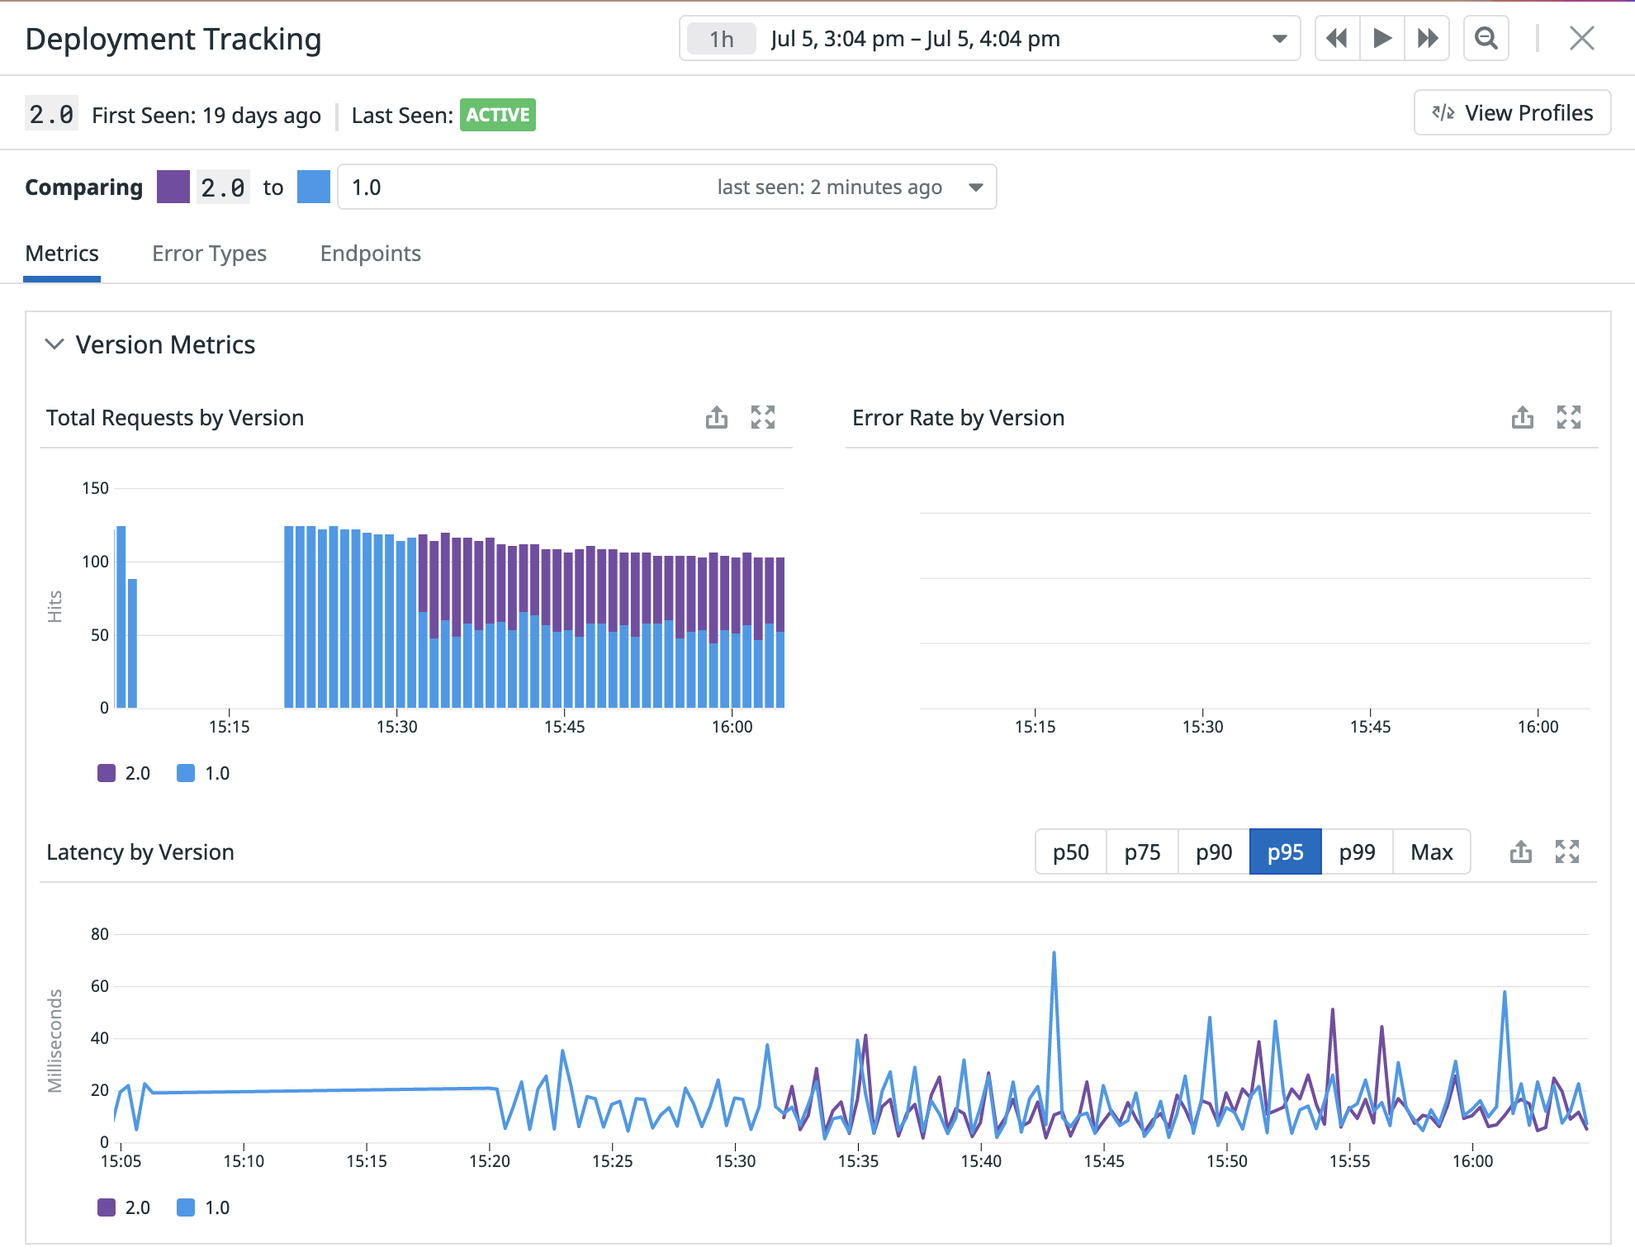
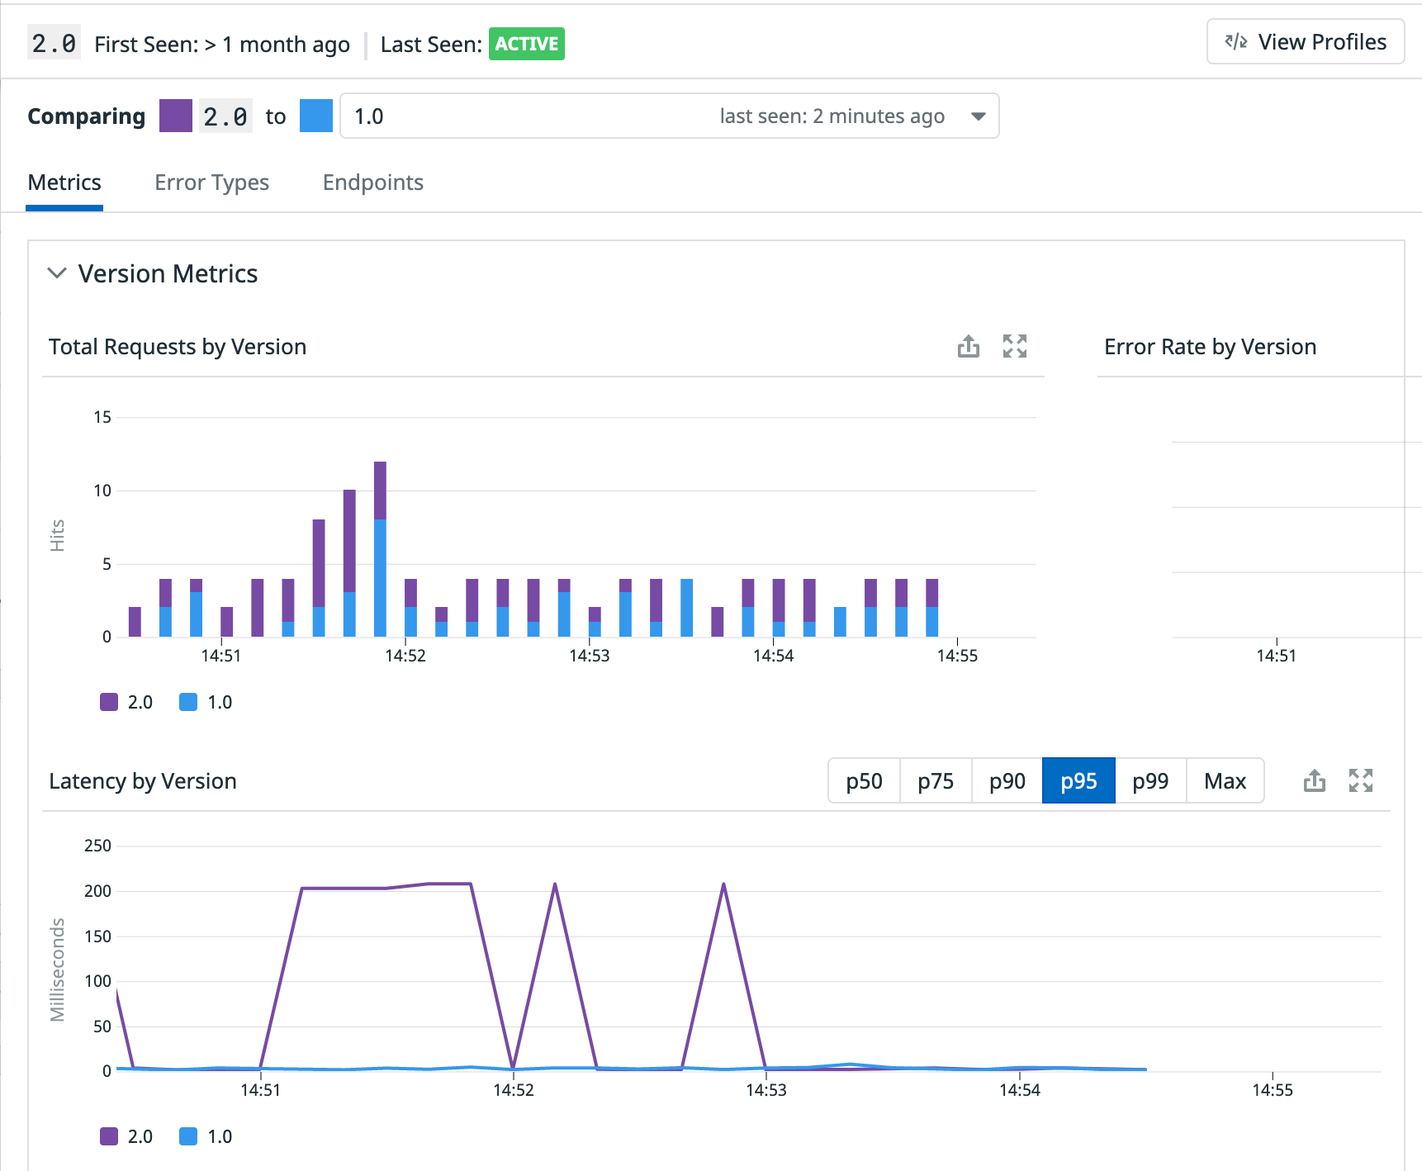
Improvements to the progressive delivery workshop

diff --git a/progressive/step11.md b/progressive/step11.md
@@ -2,20 +2,46 @@ As you have seen, VirtualServices can be used to bind traffic from a Gateway to 
 
 We are going to use VirtualServices in combination with [DestinationsRules](https://istio.io/latest/docs/reference/config/networking/destination-rule/) to be able to create a canary deployment for the `advertisements` service. Destination Rules are rules to configures what happens to your network traffic once it has reached the destination defined in a Virtual Service.
 
-We are going to create a second deployment of the `advertisements` container. Open the file called `manifest-files/istio/ads-v2/advertisements.yaml`{{open}} Can you spot the differences between this deployment and the current one running on namespace `ns3`. You can see the differences running this command: `diff -u manifest-files/istio/ecommerce-istio/advertisements.yaml manifest-files/istio/ads-v2/advertisements.yaml`{{execute}} 
+We are going to create a second deployment of the `advertisements` container. Open the file called `manifest-files/istio/ads_v2/advertisements_v2.yaml`{{open}} Can you spot the differences between this deployment and the current one running on namespace `ns3`. You can see the differences running this command: `diff -u manifest-files/istio/ecommerce-istio/advertisements.yaml manifest-files/istio/ads_v2/advertisements_v2.yaml`{{execute}}
 
-You can see that we have modified the image, the `DD_VERSION` and now we have also modified the `version` label. Let's apply that manifest: `kubectl apply -f manifest-files/istio/ads-v2/advertisements.yaml`{{execute}}
+You can see that we have modified the image, the `DD_VERSION` and now we have also modified the `version` label. Let's apply that manifest: `kubectl apply -f manifest-files/istio/ads_v2/advertisements_v2.yaml`{{execute}}
 
 Open again the Istio Ingress Gateway tab again and refresh it several times. You can see that sometimes you are getting the "Version 1.0" banner and sometimes you get the "Version 2.0" banner. This is not because of Istio, this is because general Service Networking, as we saw on the first scenario. The `advertisements` Service is selecting both pods, so half the time we will get the first one, and half the time we will get the second. We are going to configure Istio to modify those canary rules.
 
-Istio uses labels to be able to define different versions of the same service. To define those different versions we will use a `DestinationRules` object. Open the file called `manifest-files/istio/ads-v2/destinationrule.yaml`{{open}}
+Istio uses labels to be able to define different versions of the same service. To define those different versions we will use a `DestinationRules` object. Open the file called `manifest-files/istio/ads_v2/destinationrule.yaml`{{open}}
 
-In that file we are defining two different subsets of pods for the `advertisements` host: `v1` for pods with the label `version=v1` and `v2` for pods with the label `v2`. Let's apply that object: `kubectl apply -f manifest-files/istio/ads-v2/destinationrule.yaml`{{execute}}
+In that file we are defining two different subsets of pods for the `advertisements` host: `v1` for pods with the label `version=v1` and `v2` for pods with the label `version=v2`. Let's apply that object: `kubectl apply -f manifest-files/istio/ads_v2/destinationrule.yaml`{{execute}}
 
-Now we need to create a `VirtualService` object to define routing rules for the `advertisements` host. Open the file called `manifest-files/istio/ads-v2/virtualservice.yaml`{{open}} We are defining that for any traffic addressed to `advertisements` we are routing that to both versions of `advertisements` is the same, but each of them will get a different weight, with version v1 getting 100% of the trafic. Let's apply that object: `kubectl apply -f manifest-files/istio/ads-v2/virtualservice.yaml`{{execute}} 
+When the `frontend` service calls the `advertisements` service it always calls this endpoint: `http://advertisements:5002/ads`, but it sends a different value for the HTTP header `page-source` depending from what page the service is called from. When you see the ads banner from the home page, the value for the `page-source` header is `home`, but when you click on a product, and get the ads banner at the bottom of the page, the value for the `page-source` header in the request to `http://advertisements:5002/ads` is `products`.
 
-Open again the Istio Ingress Gateway tab again and refresh it several times. You are now getting the "Version 1.0" banner 100% of the times.
+Our business team have an hypothesis about the advertisement shown in the product pages. As a customer seeing that advertisement has already express interest in a product, it is more likely to click on a relevant advertisement. To try to prove their theory, they want 50% of the customer visiting a product to get version 2.0 of the advertisement service, with this new feature, and 50% the current version 1.0. Customers reaching the home page would need to always get version 1.0.
 
-Edit the manifest file to split the traffic between versions with a weight of 50% each: `manifest-files/istio/ads-v2/virtualservice.yaml`{{open}}. Once you have made the needed edits, apply the manifest again: `kubectl apply -f manifest-files/istio/ads-v2/virtualservice.yaml`{{execute}}
+We need to create a `VirtualService` object to define routing rules for the `advertisements` host. Open the file called `manifest-files/istio/ads_v2/virtualservice.yaml`{{open}}
 
-Open again the Istio Ingress Gateway tab again and refresh it several times. You should now be getting about half the time the "Version 1.0" banner, and half of the time the "Version 2.0" banner.
+We are defining that for any traffic addressed to `advertisements` we are creating a special route for those requests in which the `page-source` header value is `products`, meaning that the `advertisements` service was called from a product page. In those cases, 50% of the traffic will go to version 1.0 of the service, and 50% to version 2.0. If the header is not present or has a different value, then 100% of the time it will reach version 1.0 of the service.
+
+```
+[...]
+  - match:
+    - headers:
+        page-source:
+          exact: "products"
+    route:
+    - destination:
+        host: advertisements
+        subset: v1
+      weight: 50
+    - destination:
+        host: advertisements
+        subset: v2
+      weight: 50
+[...]
+```
+
+Let's apply that object: `kubectl apply -f manifest-files/istio/ads_v2/virtualservice.yaml`{{execute}}
+
+Open again the Istio Ingress Gateway tab again and refresh it several times. You are now getting the "Version 1.0" banner 100% of the times, as you are in the home page.
+
+Click now on any of the products and refresh that page several times. You should now be getting about half the time the "Version 1.0" banner, and half of the time the "Version 2.0" banner.
+
+![Screenshot of a product showing ads v2](./assets/products_ads_v2.png)

diff --git a/progressive/step9.md b/progressive/step9.md
@@ -25,41 +25,23 @@ Click again on the "Service Ingress" tab and refresh several times the page. As 
 
 We are going to create a second Ingress object for our canary service. Open the file called `manifest-files/ingress_ns/ingressv2.yaml`{{open}} and try to spot the differences with the first frontend Ingress object. You can spot the differences running the following `diff` command: `diff -u manifest-files/ingress/ingressv1.yaml  manifest-files/ingress_ns/ingressv2.yaml`{{execute}}
 
-Our Ecommerce logo is the Spree standard one:
-
-![Screenshot of the Spree logo](./assets/spree_logo.png)
-
-We are going to apply a second deployment for the `frontend` service, that uses a different docker image label, that changes the default logo, so we can distinguish them easily.
-
-Open the file called `manifest-files/ingress/ecommerce-v2/frontend.yaml`{{open}} and try to spot the differences with the original one. You can spot the differences running the following `diff` command: `diff -u manifest-files/ecommerce-v1/frontend.yaml  manifest-files/ingress/ecommerce-v2/frontend.yaml`{{execute}}
-
-As you can see we have modified the image tag and the value for the `DD_VERSION` environment variable, to make sure we can track correctly both versions in Datadog. Also, you can see that this second deployment will change the labels slightly, because we will also create a second different Kubernetes service for this one.
-
-Open the file called `manifest-files/ingress/ecommerce-v2/frontend-svc.yaml`{{open}} and try to spot the differences with the first frontend service. You can spot the differences running the following `diff` command: `diff -u manifest-files/ecommerce-v1/frontend-svc.yaml  manifest-files/ingress/ecommerce-v2/frontend-svc.yaml`{{execute}}
-
-As you can see, the only difference is that this second service selects the pods with the label `service:frontendv2`, which is the label we had changed for this second deployment.
-
-Let's apply the second deployment and the second service: `kubectl apply -f manifest-files/ingress/ecommerce-v2/frontend.yaml && kubectl apply -f manifest-files/ingress/ecommerce-v2/frontend-svc.yaml`{{execute}}
-
-We have now two different deployments for `frontend` with a different set of labels, running different docker images: `kubectl get deployments -n ns1  --show-labels | grep frontend`{{execute}}.
-
-Click again on the "Service Ingress" tab and refresh several times the page. As you can see, you still only see version 1.0 for the `frontend` service. The reason is that we haven't added an Ingress object for the second service. Let's do that now.
-
-We are going to create a second Ingress object for our canary service. Open the file called `manifest-files/ingress/ecommerce-v2/ingressv2.yaml`{{open}} and try to spot the differences with the first frontend Ingress object. You can spot the differences running the following `diff` command: `diff -u manifest-files/ecommerce-v1/ingress/ingressv1.yaml  manifest-files/ingress/ecommerce-v2/ingressv2.yaml`{{execute}}
-
-You can see that we have added two NGINX annotations:
-
 ```
+-  name: frontend-ingress
+-  namespace: ns1
++  name: frontend-ingress
++  namespace: ns2
+   annotations:
+     nginx.ingress.kubernetes.io/rewrite-target: /
 +    nginx.ingress.kubernetes.io/canary: "true"
 +    nginx.ingress.kubernetes.io/canary-weight: "50"
 ```
 
-With those two annonations we are telling the NGINX Ingress controller that this second Ingress is a canary of the first one (it has the same `path`), and to direct 50% of the traffic to this canary service.
+You see that the second Ingress gets deployed in the namespace `ns2`, alongside the second version of our application. Also, this Ingress will be a "canary" of the first one.
 
-Let's apply that new Ingress object: `kubectl apply -f manifest-files/ingress/ecommerce-v2/ingressv2.yaml`{{execute}}
+Let's apply that object: `kubectl apply -f manifest-files/ingress_ns/ingressv2.yaml`{{execute}}
 
-Refresh several times again the page for the `Ingress Service`. You will see that sometimes you are getting the Version 1.0 banner and sometimes you are getting the Version 2.0 one:
+Click again on the "Service Ingress" tab and refresh several times the page. Sometimes you should get the ads banner "Version 1.0" and sometimes you will get the one with "Version 2.0":
 
 ![Screenshot of Ecommerce app with ads version 2.0](./assets/ads_v2.png)
 
-**IMPORTANT**: Before continuing, let's revert the second version of the application to make sure the rest of the labs work correctly: `kubectl delete ns ns2`{{execute}}
+**IMPORTANT**: Before continuing, let's revert the second version of the application to make sure the rest of the scenario works correctly: `kubectl delete ns ns2`{{execute}}

diff --git a/progressive/step6.md b/progressive/step6.md
@@ -1,12 +1,12 @@
-We are going to apply a second deployment for the `advertisements` service, that uses a different docker image label, that makes the ads service to always delivery a banner that states `Version 2.0`, so we can easily distinguish them.
+We are going to apply a second deployment for the `advertisements` service, that uses a different docker image label, that makes the ads service to always deliver a banner that states `Version 2.0`, so we can easily distinguish it.
 
 Open the file called `manifest-files/servicenetwork/advertisements.yaml`{{open}} and try to spot the differences with the original one. You can spot the differences running the following `diff` command: `diff -u manifest-files/ecommerce-v1/advertisements.yaml  manifest-files/servicenetwork/advertisements.yaml`{{execute}}
 
-As you can see we have modified the image tag and the value for the `DD_VERSION` environment variable, to make sure we can track correctly both versions in Datadog. Also, you can see that this second deployment will have the exact same labels as the first one, and, therefore, will be selected by the `frontend` service selector as well.
+As you can see we have modified the image tag and the value for the `DD_VERSION` environment variable, to make sure we can track correctly both versions in Datadog. Also, you can see that this second deployment will have the exact same labels as the first one, and, therefore, will be selected by the `advertisements` service selector as well.
 
 Let's apply this second deployment: `kubectl apply -f manifest-files/servicenetwork/advertisements.yaml`{{execute}}
 
-We have now two different deployments with the same set of labels, running different docker images: `kubectl get deployments -n ns1 -l service=advertisements --show-labels`{{€xecute}}. The pods part of each of these deployments also share the set of labels: `kubectl get pods -n ns1 -l service=advertisements --show-labels`{{€xecute}}
+We have now two different deployments with the same set of labels, running different docker images: `kubectl get deployments -n ns1 -l service=advertisements --show-labels`{{€xecute}}. The pods that are part of each of these deployments also share the set of labels: `kubectl get pods -n ns1 -l service=advertisements --show-labels`{{€xecute}}
 
 The `advertisements` service will select any pod that matches those two common labels: `kubectl get svc advertisements -n ns1 -o custom-columns="Name:metadata.name,Selector:spec.selector"`{{execute}}, and it will select one of the two randomnly with the same weight.
 
@@ -24,6 +24,6 @@ Click on the `2.0` row and you will get a comparison between the two versions:
 
 Are we getting new errors? Is the latency of the two versions similar? Are we happy with progressively moving this release forward or shall we rollback?
 
-Progressive delivery and a correct observability strategy can help you making these decisions.
+Progressive delivery and a correct observability strategy can help you making these decisions. In this case we can clearly see that the new version of the `advertisements` service is adding extra latency (about 200ms). Something is wrong with this release. We can quickly rollback before moving the release forward to avoid this extra latency reaching more of our customers and investigate the root cause.
 
 **IMPORTANT**: Before continuing, let's revert the second version of the `advertisements` service to make sure the rest of the labs work correctly: `kubectl delete -f manifest-files/servicenetwork/advertisements.yaml`{{execute}}

diff --git a/progressive/step10.md b/progressive/step10.md
@@ -7,6 +7,10 @@ istio-ingressgateway   1/1     1            1           37m
 istiod                 1/1     1            1           38m
 ```
 
+Datadog comes with an out-of-the-box Istio integration. Open [the integration tile in Datadog](https://app.datadoghq.com/account/settings#integrations/istio) and if it is not already install it, click on Install:
+
+![Screenshot of Istio Integration](./assets/istion_integration.png)
+
 We are going to tell Istio to add the Envoy proxy to any pod deployed to namespace `ns3`, by adding it the label `istio-injection`:
 
 `kubectl label namespace ns3 istio-injection=enabled`{{execute}}
@@ -22,7 +26,7 @@ Let's now deploy the E-commerce application in the `ns3` namespace:
 
 `kubectl apply -f manifest-files/istio/ecommerce-istio -n ns3`{{execute}}
 
-Let's check the pods that are now running in that namespace: `kubectl get pods -n ns3`{{execute}} You should get an output similar to this one (If not all containers are Ready yet, you can execute the previous command several times, until you get all pods up and running):
+Let's check the pods that are now running in that namespace: `kubectl get pods -n ns3`{{execute}} You should get an output similar to this one (If not all containers are Ready yet, you can execute this command several times, until you get all pods up and running):
 
 ```
 NAME                              READY   STATUS    RESTARTS   AGE
@@ -41,3 +45,13 @@ frontend-575bd7dddb-kqnkw         arapulido/frontend:1.0,docker.io/istio/proxyv2
 ```
 
 As you can see, Istio has injected an Envoy proxy container into each of the pods deployed to namespace `ns3`. All comunication between those pods will happen through the Envoy proxy sidecar containers.
+
+The E-commerce application is deployed to namespace `ns3` but not accessible from the outside. To make it accessible, create an [Istio Ingress Gateway](https://istio.io/latest/docs/concepts/traffic-management/#gateways), which is similar to the Kubernetes Ingress object, but specific for Istio.
+
+Open the file called `manifest-files/istio/frontend-gateway.yaml`{{open}}. Browse it around to understand what we are doing here. Basically, we are saying that for any path, and any host, to redirect all external traffic to our `frontend` service in namespace `ns3`.
+
+Let's apply it: `kubectl apply -f manifest-files/istio/frontend-gateway.yaml`{{execute}}
+
+Once the Gateway and VirtualService objects have been created, click on the "Istio Ingress Gateway" to access the E-commerce application through Istio Gatway:
+
+![Screenshot of Ecommerce app](./assets/app.png)

diff --git a/progressive/step4.md b/progressive/step4.md
@@ -1,1 +1,27 @@
-## Placeholder for container orchestrator, infra, service map
+As we have our application up and running and we have deployed Datadog to it, we should start seeing data in our Datadog account. Let's browse around.
+
+## Live Containers
+
+Open the [Live Containers page](https://app.datadoghq.com/containers) and browse around:
+
+![Screenshot of the Live Containers page](./assets/live_containers.png)
+
+In the Live Containers page you can have all the information about your Kubernetes cluster in a single place. For example, if you wanted to have a visualization of all Deployments in your cluster, grouped by namespace, you could click on "Deployments", then group by `kube_namespace` and then click on "Cluster Map". [This link](https://app.datadoghq.com/orchestration/map/deployment?groups=kube_namespace&metric=deployment.uptime&paused=false) will send you directly to that visualization:
+
+![Screenshot of the Cluster Map page](./assets/cluster_map.png)
+
+Continue to browse around the Live Containers page. What other information are you finding?
+
+## Service page
+
+Our application is already instrumented for distributed tracing, so any request made to the application will generate a trace and a set of spans. We are also generating fake traffic to the application, to ensure we get enough data.
+
+Open the [Services list](https://app.datadoghq.com/apm/services?env=progressive). What services do you see? What type of information are we getting for each of those?
+
+![Screenshot of the Service List page](./assets/service_list.png)
+
+Click now on "Service Map", you can get the same information but in a visual way, being able to quickly understand what services talk to what services in our application:
+
+![Screenshot of the Service Map page](./assets/service_map.png)
+
+Hover over the different services to visualize traffic and latency.

diff --git a/progressive/step5.md b/progressive/step5.md
@@ -2,6 +2,15 @@ For this first progressive delivery scenario, we are going to use the power of s
 
 Open the original file that we used to deploy version `1.0` of the `advertisements` service `manifest-files/ecommerce-v1/advertisements.yaml`{{open}} and check that the image name points to tag `1.0` of the image, and that `DD_VERSION` environment variable is set to `1.0`.
 
+```
+[...]
+      - image: arapulido/ads-service:1.0
+[...]
+          - name: DD_VERSION
+            value: "1.0"
+[...]
+```
+
 `DD_ENV`, `DD_SERVICE`, and `DD_VERSION` are part of [Datadog's Unified Service Tagging](https://docs.datadoghq.com/getting_started/tagging/unified_service_tagging/?tab=kubernetes) that allows to correctly correlate metrics, logs and traces for your application different services, taking into account the different environments you may have (production, staging, etc.) and the different versions of your services that you may be running.
 
 Let's check [the `advertisements` service page](https://app.datadoghq.com/apm/service/advertisements) in Datadog. That page is the entry point to get information about a particular service: latency distributions, errors, number of requests, etc. Thanks to the `DD_VERSION` tag that we are sending, we can also get the different versions of the service we have deployed in our cluster:

diff --git a/progressive/step7.md b/progressive/step7.md
@@ -11,6 +11,20 @@ Clicking on the "Ingress Service" tab will open the NodePort for the Ingress ser
 
 We are going to create a first Ingress object to redirect all traffic, regardless of the host, to our `frontend` service in the `ns1` namespace. Open the file called `manifest-files/ingress/ingressv1.yaml`{{open}} As you can see, for all paths with a prefix of `/` (basically, any path) will be redirected to the `frontend` service.
 
+```
+[...]
+  - http:
+      paths:
+      - path: /
+        pathType: Prefix
+        backend:
+          service:
+            name: frontend
+            port:
+              number: 80
+[...]
+```
+
 Let's apply that new Ingress object: `kubectl apply -f manifest-files/ingress/ingressv1.yaml`{{execute}}
 
 Once the Ingress object has been created, refresh the NGINX page and you should get now the Ecommerce application:

diff --git a/progressive/step8.md b/progressive/step8.md
@@ -33,7 +33,7 @@ You can see that apart from the  NGINX canary annotations, we are creating this 
 +    nginx.ingress.kubernetes.io/canary-weight: "50"
 ```
 
-Let's apply that new Ingress object: `kubectl apply -f manifest-files/ingress_ns/ingressv2.yaml`{{execute}}
+Let's apply that new Ingress object: `kubectl apply -f manifest-files/ingress/ecommerce-v2/ingressv2.yaml`{{execute}}
 
 Refresh several times again the page for the `Ingress Service`. You will see that sometimes you are getting the old logo and sometimes you are getting the new one:
 
